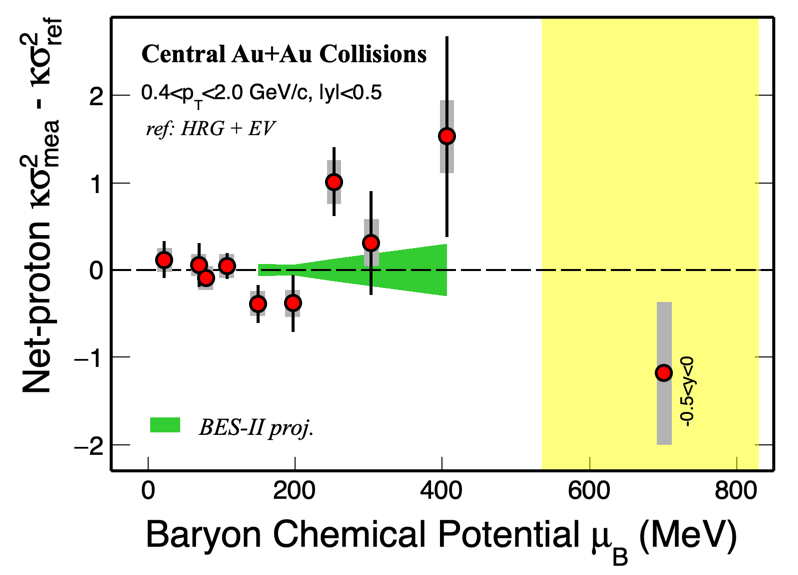
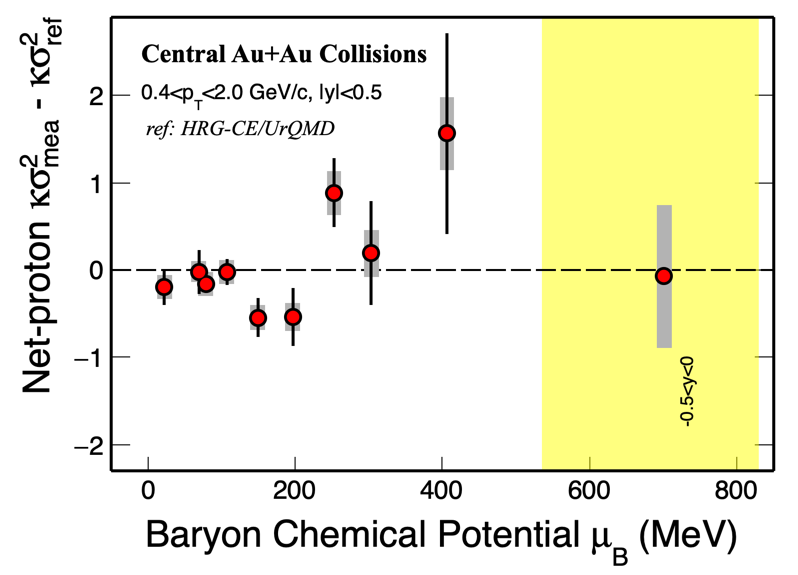
Update kappasigma2 for QCD town hall meeting plots

diff --git a/Kurtosis/kappasigma2.C b/Kurtosis/kappasigma2.C
@@ -17,7 +17,7 @@ Double_t xgx(Double_t *x, Double_t *par)
   }
 }
 
-void kappasigma2(){
+void kappasigma2(const Int_t config=1){
   style();
 
   // parametrization from Andronic: 1710.09425
@@ -33,14 +33,13 @@ void kappasigma2(){
   Double_t C4C2_e_tot[NE];
 
   // from BES-I PRC long paper
-  /*
   const Int_t NE_ref = 5;
   const Double_t E_ref[NE_ref] = {3.0, 8.8, 17.27, 27.0, 62.4};  // 3.0 - UrQMD, others - HRG - CE
   const Double_t C4C2_ref[NE_ref] = {-0.774, 0.43147, 0.65726, 0.73934, 0.81176};
   TGraph *gr_ref = new TGraph(NE_ref, E_ref, C4C2_ref);
-  */
+
   // from VV, BC+EV: 2107.00163
-  TGraph *gr_ref = new TGraph("ksigma2_BCEV.txt","%lg %lg");
+  //  TGraph *gr_ref = new TGraph("ksigma2_BCEV.txt","%lg %lg");
 
     
   for(int i=0;i<NE;i++) {
@@ -102,7 +101,7 @@ void kappasigma2(){
   gr_p->SetFillColor(kGreen-3);
   gr_p->SetLineColor(kGreen-3);
   gr_p->SetLineWidth(15);
-  gr_p->Draw("e3");
+  if(config) gr_p->Draw("e3");
   drawLine(x1,0,x2,0,2,9,1);
 
   TF1 *fun = new TF1("fun",xgx,x1,x2,5);
@@ -133,14 +132,15 @@ void kappasigma2(){
 
   drawText(23, y1+(y2-y1)*0.9, "Central Au+Au Collisions",22,0.055);
   drawText(42, y1+(y2-y1)*0.82, "0.4<p_{T}<2.0 GeV/c, |y|<0.5",42,0.04);
-  drawText(95, y1+(y2-y1)*0.74, " ref: HRG + EV",12,0.04);
+  //  drawText(95, y1+(y2-y1)*0.74, " ref: HRG + EV",12,0.04);
+  drawText(65, y1+(y2-y1)*0.74, " ref: HRG-CE/UrQMD",12,0.04);
   TLegend *leg = new TLegend(0.67, 0.22, 0.9, 0.3);
   leg->SetLineColor(10);
   leg->SetTextSize(0.04);
   leg->SetTextFont(12);
   leg->SetTextSize(0.045);
   leg->AddEntry(gr_p,"  BES-II proj.","l");
-  leg->Draw();
+  if(config) leg->Draw();
   
   c1->Update();
   c1->SaveAs("kappasigma2VsE.pdf");
@@ -172,7 +172,7 @@ void kappasigma2(){
   gr_p_muB->SetFillColor(kGreen-3);
   gr_p_muB->SetLineColor(kGreen-3);
   gr_p_muB->SetLineWidth(15);
-  gr_p_muB->Draw("e3");
+  if(config) gr_p_muB->Draw("e3");
   drawLine(x1,0,x2,0,2,9,1);
 	   
   drawSysBox(gr_se_muB, 10, 16);
@@ -189,14 +189,15 @@ void kappasigma2(){
 
   drawText(-10, y1+(y2-y1)*0.9, "Central Au+Au Collisions",22,0.05);
   drawText(-10, y1+(y2-y1)*0.82, "0.4<p_{T}<2.0 GeV/c, |y|<0.5",42,0.04);
-  drawText(-10, y1+(y2-y1)*0.74, " ref: HRG + EV",12,0.04);
+  //  drawText(-10, y1+(y2-y1)*0.74, " ref: HRG + EV",12,0.04);
+  drawText(-10, y1+(y2-y1)*0.74, " ref: HRG-CE/UrQMD",12,0.04);
 
   leg = new TLegend(0.18, 0.22, 0.4, 0.3);
   leg->SetLineColor(10);
   leg->SetTextSize(0.045);
   leg->SetTextFont(12);
   leg->AddEntry(gr_p_muB,"  BES-II proj.","l");
-  leg->Draw();
+  if(config) leg->Draw();
 
   c2->Update();
   c2->SaveAs("kappasigma2VsMuB.pdf");
